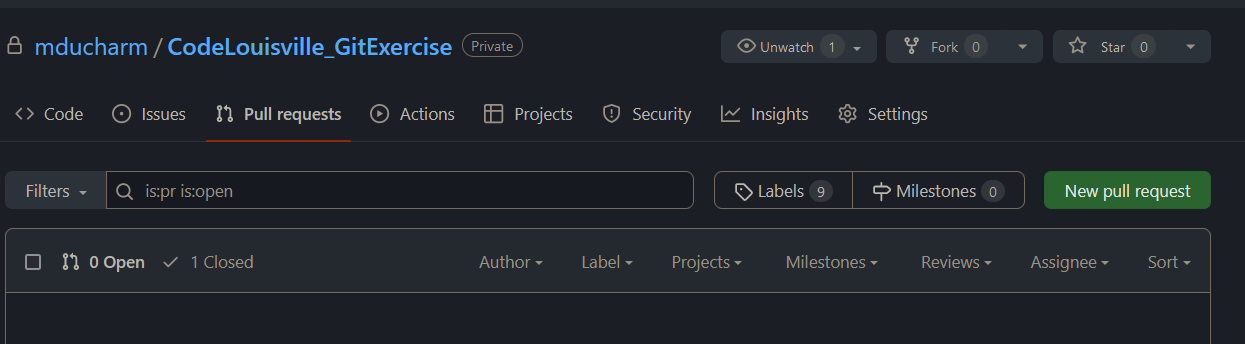
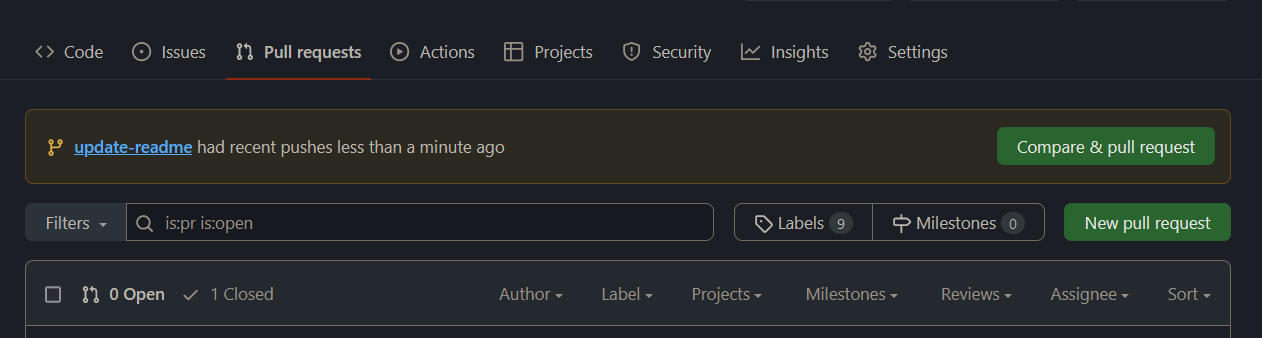
add pr instruction

diff --git a/README.md b/README.md
@@ -68,3 +68,13 @@ git remote -v
 ```
 
 ### Create a Pull Request
+
+Navigate back to the original repo (not your forked copy). Under the `Pull Requests` tab, click `New pull request`. Alternatively, a `Compare & pull request` option may also show with your newly created branch, which you can also select.
+
+![img](./.github/new-pr.png)
+
+Ensure that your branch is selected in the dropdown displayed below. You can scroll down to view a 'diff' between your changes and the existing code.
+
+After adding a title and description, click `Create pull request`.
+
+![img](./.github/create-pr.png)
